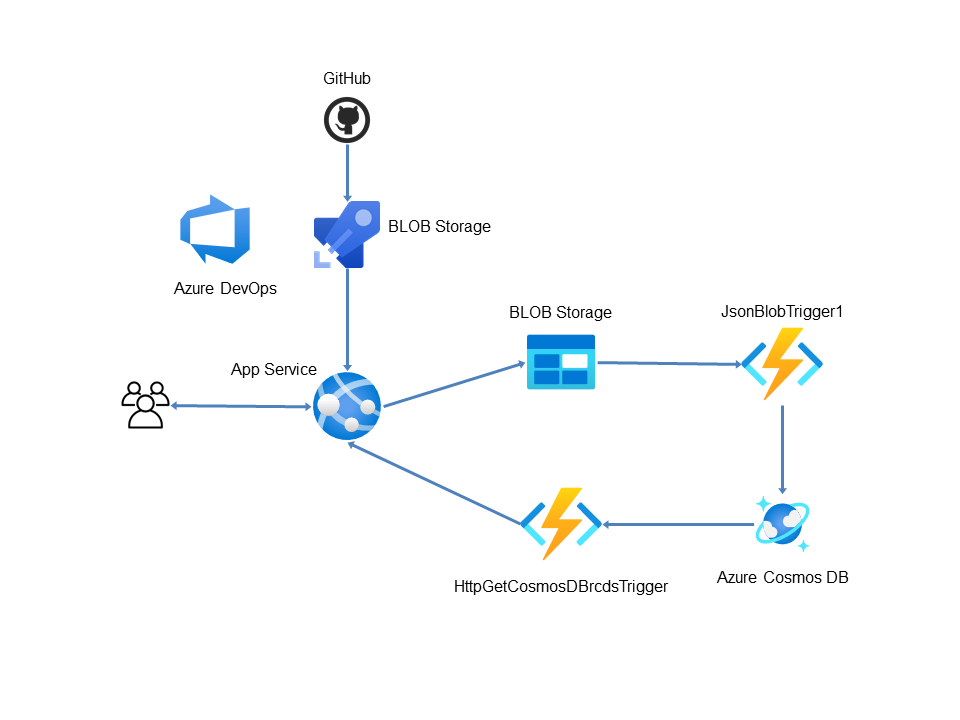
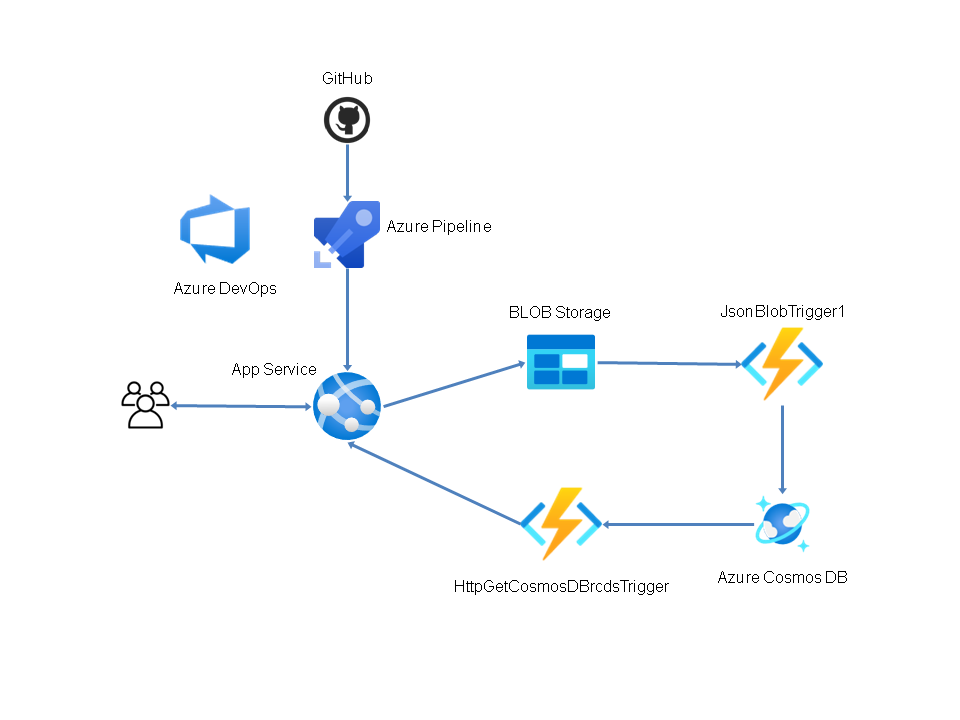
so very close to final

diff --git a/README.md b/README.md
@@ -3,9 +3,9 @@
 
 Goal
 ----
-The objective of this project wasto create a web application that’s scalable and robust, as well as a stable deployment pipeline for the application.
+The objective of this project was to create a web application that’s scalable and robust, as well as a stable deployment pipeline for the application.
 
-The objective was achieved by designing and building a DevOps CICD Pipeline using Azure DevOps Pipeline, ARM Templates, App Service, Front Door, Blob Storage, Cosmos DB, and Virtual Network services from Azure.
+The objective was achieved by designing and building a DevOps CICD Pipeline using Azure DevOps Pipeline, ARM Templates, App Service, Front Door, Blob Storage, Cosmos DB, Functions and Virtual Network services from Azure.
 
 Outcome
 -------
@@ -26,10 +26,11 @@ This project was completed in five steps:
   * API type should be Core (SQL)
 3. Using an ARM Template, create a Storage Account with Blob Storage.
 4. Create a simple web application and use GitHub as source control.
-5. Use YAML to create a pipeline in Azure DevOps with the following components:
+5. Created Functions to connect Web App to Blob Storage and Cosmos DB.
+6. Use YAML to create a pipeline in Azure DevOps with the following components:
   * It should build the web application
-  * If built successfully, run the tests.
-  * If tests pass, deploy the application to the “staging” deployment slot for the Azure App Service created in step 1.
+  * If built successfully, run the tests.  ** NOT YET IMPLEMENTED **
+  * If tests pass, deploy the application to the “staging” deployment slot for the Azure App Service created in step 1. ** NOT YET IMPLEMENTED **
 
 
 Solution
